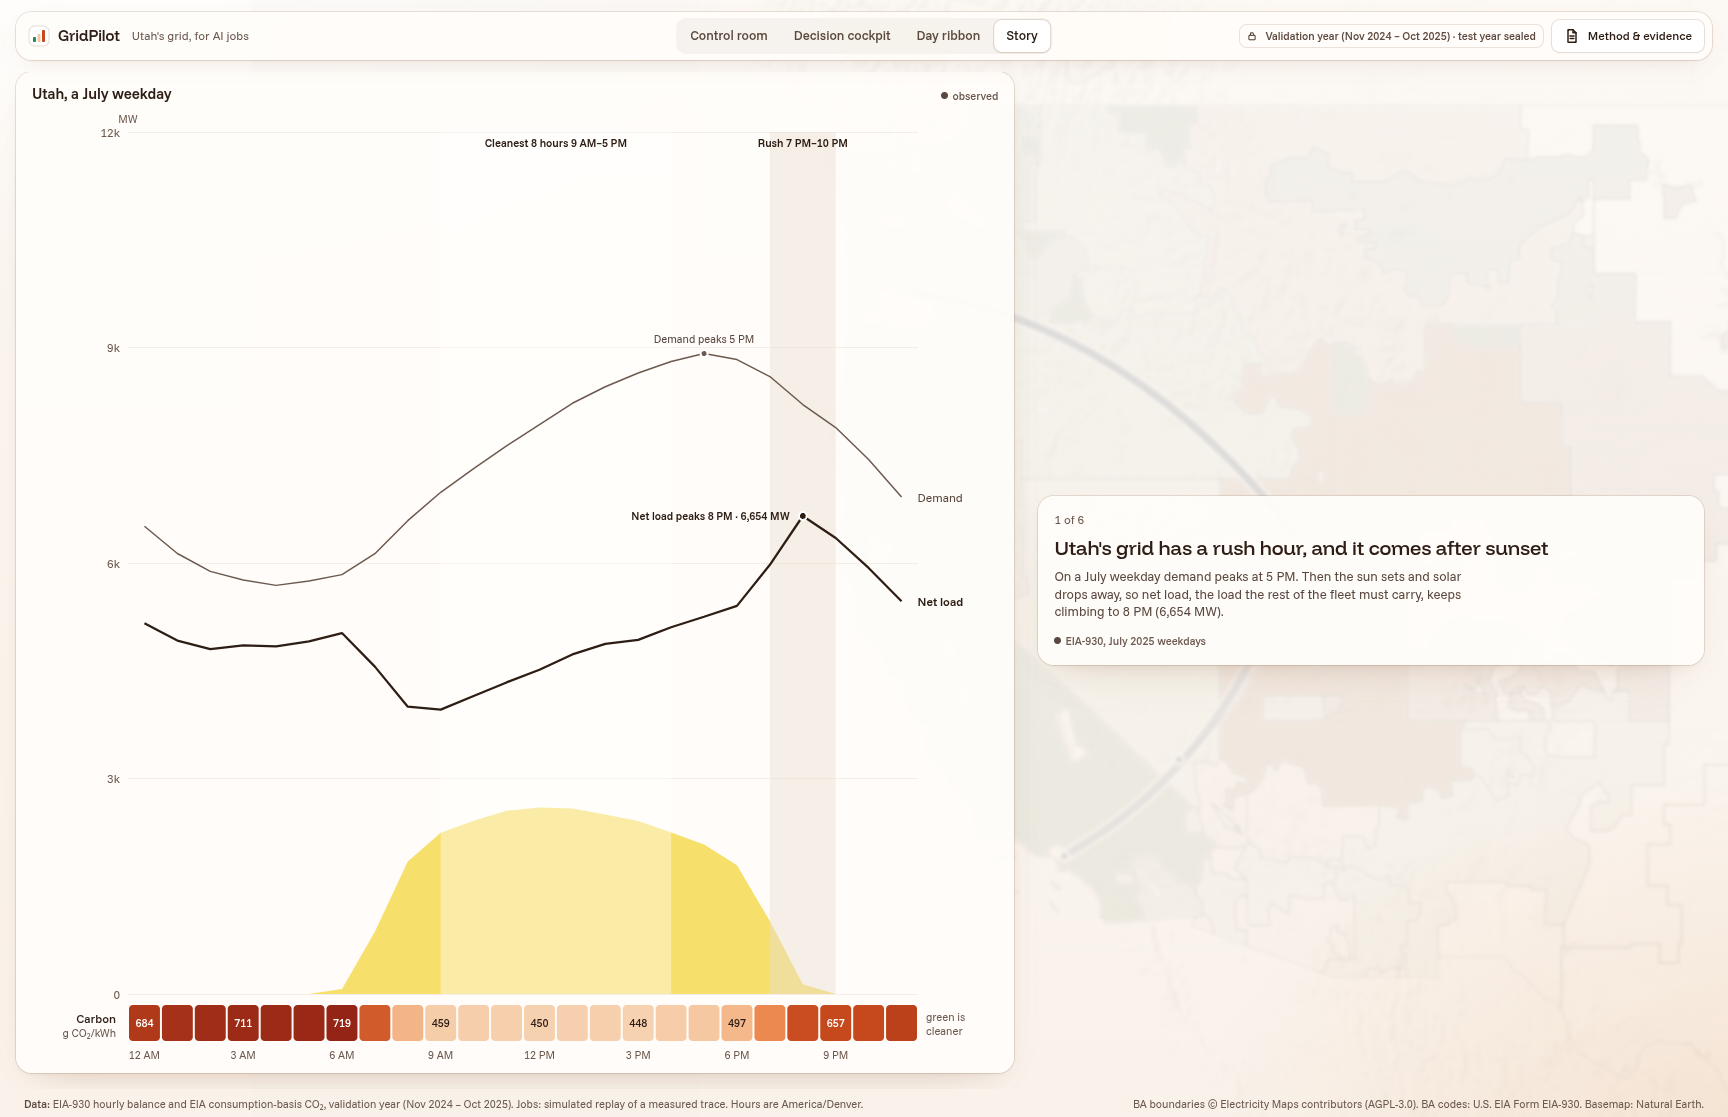
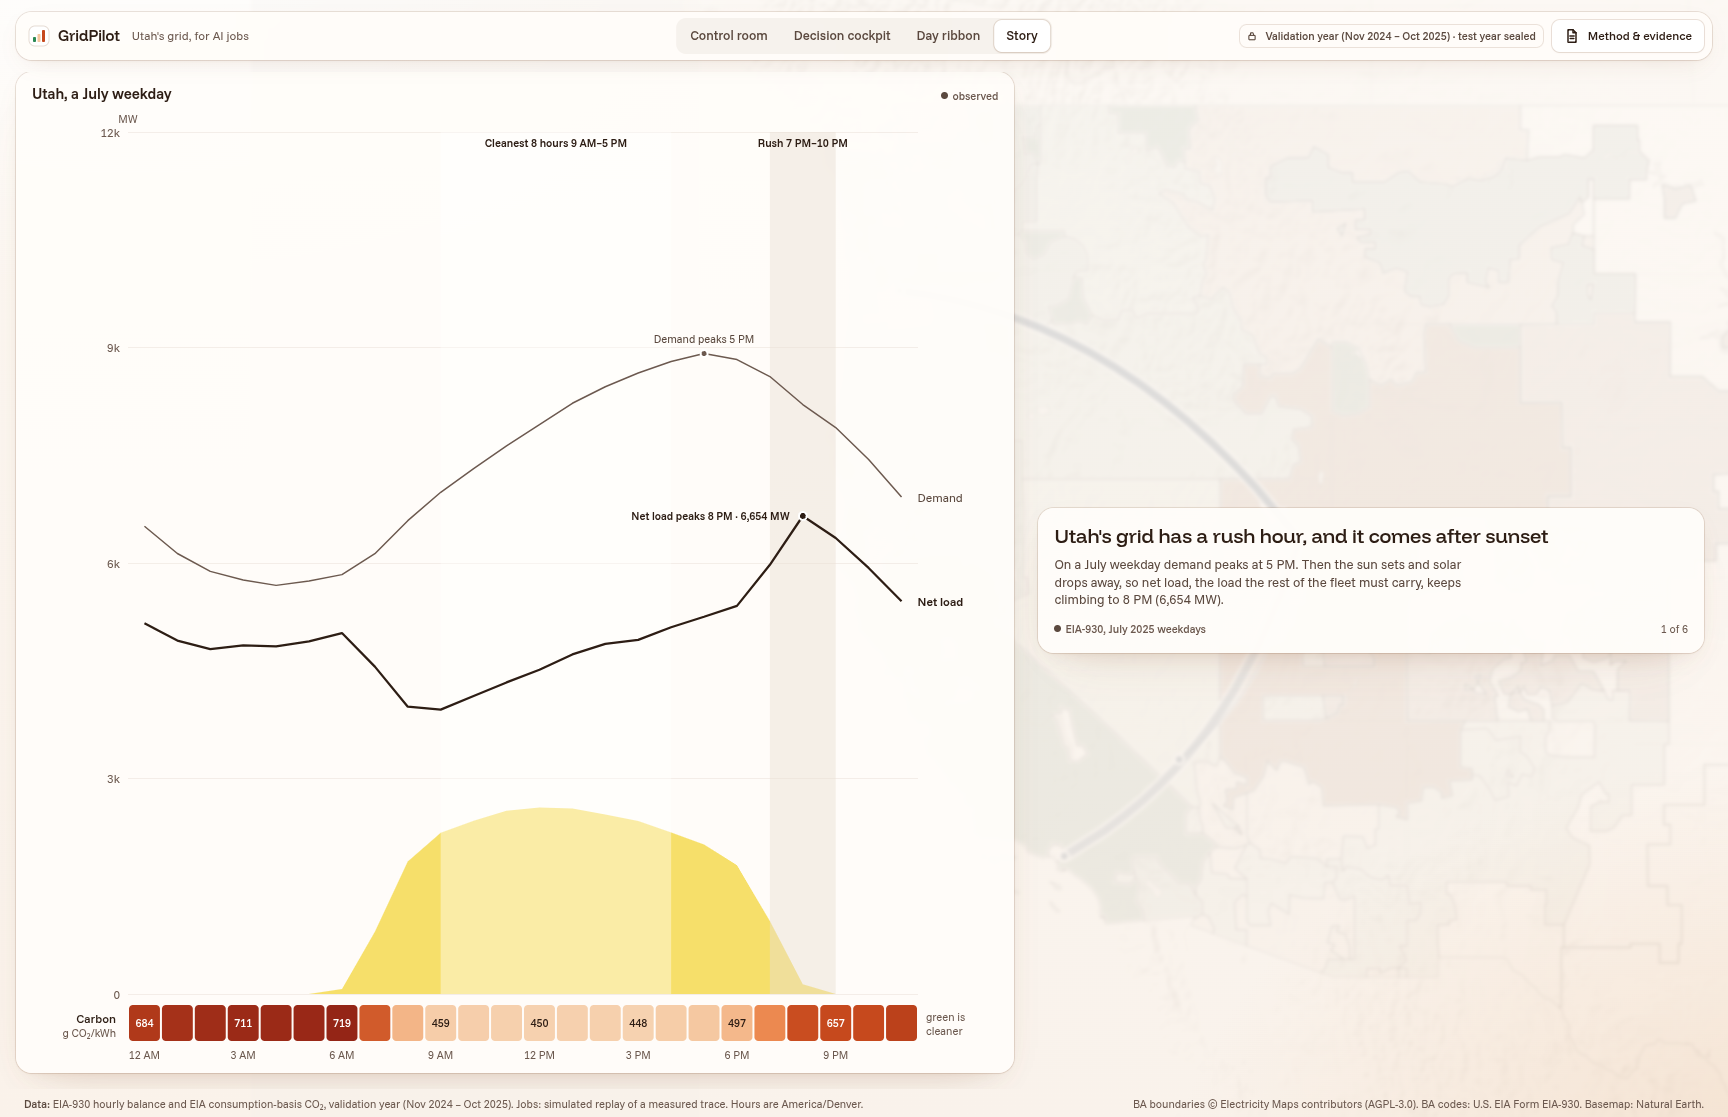
fix: story visuals fill their panel; step counter leaves the heading
Story steps 2 and 3 collapsed to their header (the panel did not stretch in the sticky
column). The 'n of 6' counter moves from above the heading to the evidence row (craft
floor: no eyebrow above a heading). Screenshots now cover all six story steps.

Claude-Session: https://claude.ai/code/session_01DKgVtE8vSiTczfzdqoVFhE

Changed region(s): [[0.5938, 0.4261, 0.9688, 0.6088]]

diff --git a/web/src/views/Story.tsx b/web/src/views/Story.tsx
@@ -68,10 +68,9 @@ export function Story() {
             {steps.map((s, i) => (
               <div key={i} data-step={i + 1} className="flex flex-col justify-center" style={{ minHeight: 'calc(100vh - 100px)' }}>
                 <Panel style={{ opacity: step === i + 1 ? 1 : 0.55, transition: 'opacity 160ms var(--ease)' }}>
-                  <div className="t-12 ink-3" style={{ marginBottom: 8 }}>{i + 1} of {steps.length}</div>
                   <h2 className="t-20" style={{ margin: 0 }}>{s.t}</h2>
                   <p className="t-13 ink-2" style={{ margin: '8px 0 0', maxWidth: '62ch' }}>{s.body}</p>
-                  <div className="flex flex-wrap gap-3 items-center" style={{ marginTop: 12 }}>{s.ev}</div>
+                  <div className="flex flex-wrap gap-3 items-center" style={{ marginTop: 12 }}>{s.ev}<span className="t-11 ink-3 ml-auto">{i + 1} of {steps.length}</span></div>
                 </Panel>
               </div>
             ))}
@@ -86,8 +85,9 @@ function Visual({ step, rush, clean, curve }: { step: number; rush: [number, num
   const { data } = useApp();
   const g = data!.grid, m = data!.metrics;
   const jul = g.pace_july_weekday;
-  if (step === 2) return <YearHeat />;
-  if (step === 3) return <ForecastPanel />;
+  const fill = (n: React.ReactNode) => <div className="grid h-full" style={{ gridTemplateRows: 'minmax(0,1fr)' }}>{n}</div>;
+  if (step === 2) return fill(<YearHeat />);
+  if (step === 3) return fill(<ForecastPanel />);
   if (step === 4) return (
     <Panel className="h-full flex flex-col" style={{ gap: 16 }}>
       <span className="t-15">Saving in attributed CO₂ vs running local, with 95% intervals</span>

diff --git a/web/tests/shots.spec.ts b/web/tests/shots.spec.ts
@@ -16,7 +16,7 @@ const STATES: { name: string; hash: string; prep?: (p: Page) => Promise<void> }[
   { name: 'cockpit-wait', hash: '#cockpit', prep: async (p) => { await p.getByRole('group', { name: 'Router action' }).getByRole('button', { name: 'Wait' }).click(); } },
   { name: 'ribbon', hash: '#ribbon' },
   { name: 'story-1', hash: '#story' },
-  { name: 'story-4', hash: '#story', prep: async (p) => { await p.locator('[data-step="4"]').scrollIntoViewIfNeeded(); await p.waitForTimeout(600); } },
+  ...[2, 3, 4, 5, 6].map((n) => ({ name: `story-${n}`, hash: '#story', prep: async (p: Page) => { await p.locator(`[data-step="${n}"]`).evaluate((e) => e.scrollIntoView({ block: 'center' })); await p.waitForTimeout(800); } })),
   { name: 'method', hash: '#control', prep: async (p) => { await p.getByRole('button', { name: 'Method & evidence' }).click(); await p.waitForTimeout(300); } },
 ];
 
